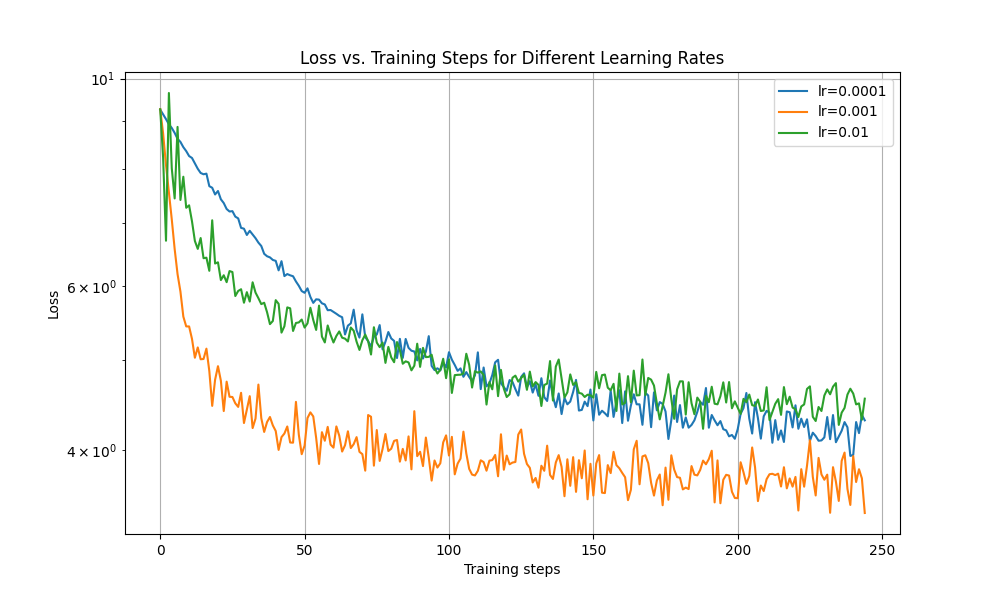
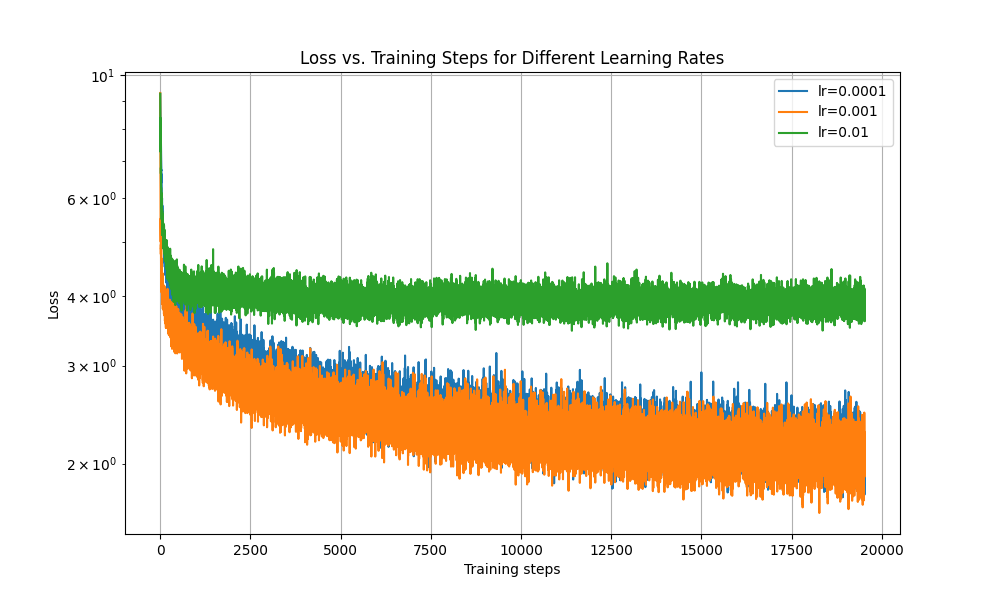
Refactor the sweep utils and add batch sweep

diff --git a/batch_sweep.py b/batch_sweep.py
@@ -5,8 +5,8 @@ import argparse
 from sweep_utils import train_with_params
 
 def main():
-    parser = argparse.ArgumentParser(description="Learning rate sweep for Transformer")
-    parser.add_argument("--total_tokens", type=int, default=40000000, help="Total tokens to process for each learning rate")
+    parser = argparse.ArgumentParser(description="Batch size sweep for Transformer")
+    parser.add_argument("--total_tokens", type=int, default=40000000, help="Total tokens to process for each batch size")
     parser.add_argument("--dataset_path", type=str, default="/home/darkforte/cs336/assignment-1/tinystories_encoded.npy")
     parser.add_argument("--vocab_size", type=int, default=10000)
     parser.add_argument("--context_length", type=int, default=256)
@@ -14,38 +14,38 @@ def main():
     parser.add_argument("--d_ff", type=int, default=1344)
     parser.add_argument("--n_heads", type=int, default=16)
     parser.add_argument("--num_layers", type=int, default=4)
-    parser.add_argument("--batch_size", type=int, default=8)
+    parser.add_argument("--lr", type=float, default=1e-4)
     parser.add_argument("--beta1", type=float, default=0.9)
     parser.add_argument("--beta2", type=float, default=0.95)
     parser.add_argument("--weight_decay", type=float, default=1e-4)
     
     args = parser.parse_args()
     
-    # Define learning rates to try
-    learning_rates = [1e-4, 1e-3, 1e-2]
+    # Define batch sizes to try
+    batch_sizes = [1, 4, 64, 128, 512]
     
     dataset = np.load(args.dataset_path, mmap_mode='r', allow_pickle=True)
     print("Data loaded successfully.")
     
-    # Run training for each learning rate
+    # Run training for each batch size
     all_losses = {}
-    for lr in learning_rates:
-        print(f"\nTraining with learning rate: {lr}")
-        losses = train_with_params(args, dataset, args.total_tokens, "lr", lr)
-        all_losses[lr] = losses
+    for batch_size in batch_sizes:
+        print(f"\nTraining with batch size: {batch_size}")
+        losses = train_with_params(args, dataset, args.total_tokens, "batch_size", batch_size)
+        all_losses[batch_size] = losses
     
     # Plotting
     plt.figure(figsize=(10, 6))
-    for lr, losses in all_losses.items():
-        plt.plot(losses, label=f'lr={lr}')
+    for batch_size, losses in all_losses.items():
+        plt.plot(losses, label=f'batch_size={batch_size}')
     
     plt.xlabel('Training steps')
     plt.ylabel('Loss')
-    plt.title('Loss vs. Training Steps for Different Learning Rates')
+    plt.title('Loss vs. Training Steps for Different Batch Sizes')
     plt.legend()
     plt.yscale('log')
     plt.grid(True)
-    plt.savefig('lr_sweep.png')
+    plt.savefig('batch_size_sweep.png')
     plt.close()
 
 if __name__ == "__main__":

diff --git a/sweep_utils.py b/sweep_utils.py
@@ -1,0 +1,69 @@
+import torch
+import numpy as np
+import time
+import train_utils
+import utils
+import transformer_blocks
+import transformer_optimizer
+
+def train_with_params(model_args, dataset, total_tokens, param_name, param_value):
+    """
+    Generic training function for parameter sweeps.
+    
+    Args:
+        model_args: Namespace containing model parameters
+        dataset: The dataset to train on
+        total_tokens: Total number of tokens to process
+        param_name: Name of the parameter being swept (for logging)
+        param_value: Value of the parameter for this run
+    """
+    device = 'cuda' if torch.cuda.is_available() else 'cpu'
+    
+    # If we're sweeping a parameter, override it in the args
+    if hasattr(model_args, param_name):
+        setattr(model_args, param_name, param_value)
+    
+    transformer_model = transformer_blocks.Transformer(
+        vocab_size=model_args.vocab_size,
+        context_length=model_args.context_length,
+        d_model=model_args.d_model,
+        d_ff=model_args.d_ff,
+        n_heads=model_args.n_heads,
+        num_layers=model_args.num_layers,
+        device=device
+    )
+    
+    optimizer = transformer_optimizer.AdamW(
+        transformer_model.parameters(),
+        lr=model_args.lr if hasattr(model_args, 'lr') else 1e-4,
+        betas=(model_args.beta1, model_args.beta2),
+        weight_decay=model_args.weight_decay,
+        eps=1e-8
+    )
+    
+    losses = []
+    tokens_processed = 0
+    step = 0
+    start_time = time.time()
+    
+    while tokens_processed < total_tokens:
+        batch, labels = train_utils.get_batch(dataset, model_args.batch_size, model_args.context_length, device=device)
+        
+        optimizer.zero_grad()
+        logits = transformer_model.forward(batch)
+        loss = utils.cross_entropy_loss(logits, labels)
+        loss.backward()
+        optimizer.step()
+        
+        losses.append(loss.item())
+        tokens_processed += model_args.batch_size * model_args.context_length
+        step += 1
+        
+        if step % 100 == 0:
+            elapsed = time.time() - start_time
+            tokens_per_sec = tokens_processed / elapsed
+            print(f"{param_name}: {param_value}, Tokens: {tokens_processed:,}, Loss: {loss.item():.4f}, Time: {elapsed:.1f}s, Tokens/sec: {tokens_per_sec:.1f}")
+    
+    checkpoint_name = f"transformer_checkpoint_{param_name}{param_value}.ckpt"
+    train_utils.save_checkpoint(transformer_model, optimizer, tokens_processed, checkpoint_name)
+    return losses

diff --git a/generate.py b/generate.py
@@ -6,7 +6,7 @@ import transformer_blocks
 import tokenizer
 
 parser = argparse.ArgumentParser(description="Text generation with trained transformer")
-parser.add_argument("--checkpoint", type=str, default="transformer_checkpoint.ckpt")
+parser.add_argument("--checkpoint", type=str, default="transformer_checkpoint_lr0.001.ckpt")
 parser.add_argument("--vocab_path", type=str, default="tinystories_vocab.pickle")
 parser.add_argument("--merges_path", type=str, default="tinystories_merges.pickle")
 parser.add_argument("--prompt", type=str, required=True, help="Text prompt to start generation")
